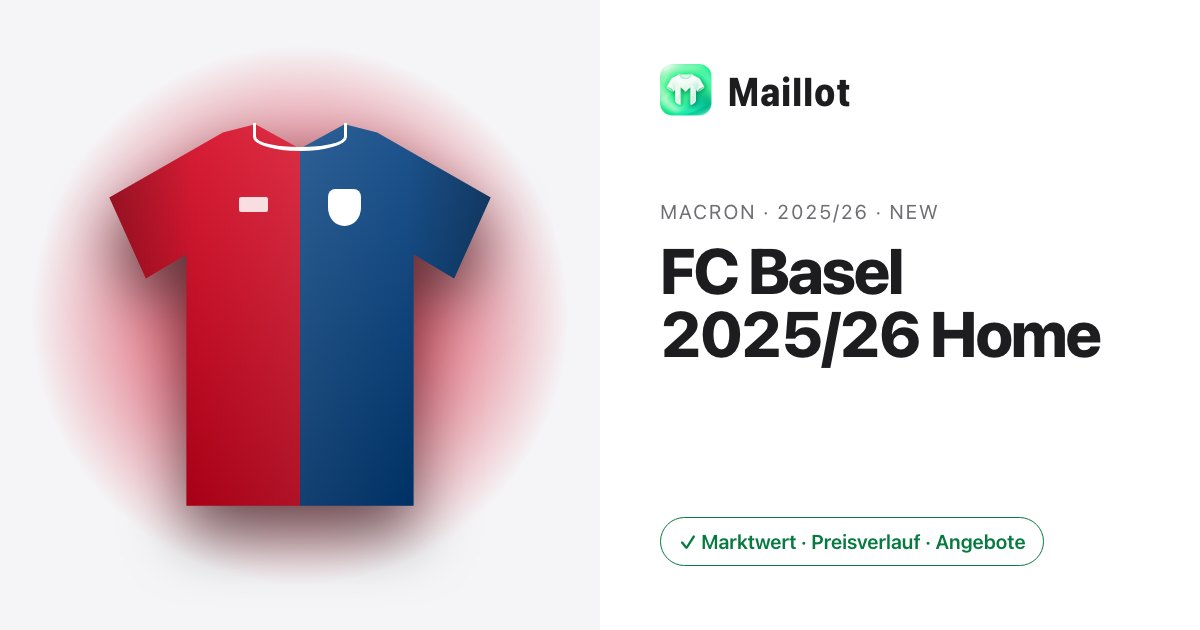
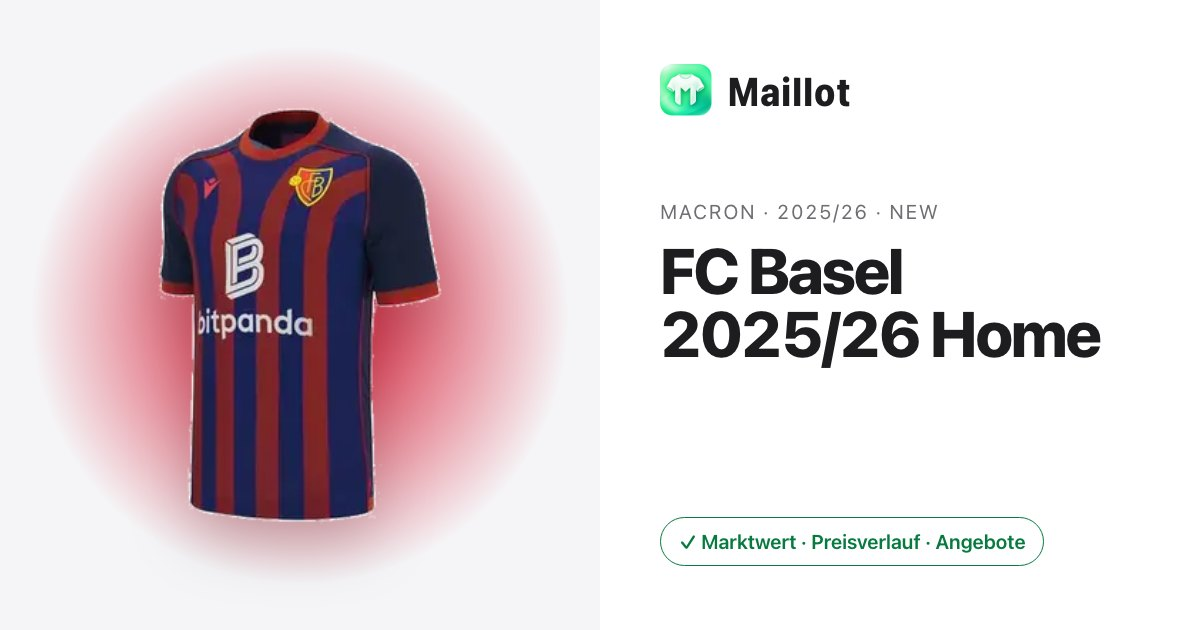
Market: real pictures only, no drawn sample shirts
Catalogue shirts without a studio photo show the same kit's picture from
the library (catalogPhotos.ts; ShirtGraphic takes a full picture path), the
link previews too. Ajax 1994/95 and Boca 1981 have no real picture: out of
the bundled catalogue (and off the market in production).

Changed region(s): [[0.0617, 0.1508, 0.4317, 0.9048]]

diff --git a/src/data.ts b/src/data.ts
@@ -89,13 +89,11 @@ const RAW: RawShirt[] = [
   { id: 'ned-88', club: 'Netherlands', name: 'Netherlands 1988 Home', season: '1988', year: 1988, brand: 'adidas', league: 'National Teams', type: 'Retro', cond: 'Excellent', edition: 'Replica', player: 'van Basten 12', price: 310, ch: 18, pat: 'repeating-linear-gradient(45deg,#FF6A13 0 10px,#EE5A08 10px 20px),#FF6A13', trim: '#FFFFFF', crest: '#FFFFFF', glow: '#FF6A13', added: 45 },
   { id: 'yb-2526', club: 'BSC Young Boys', name: 'BSC Young Boys 2025/26 Home', season: '2025/26', year: 2025, brand: 'Nike', league: 'Swiss Super League', type: 'New', cond: 'New with tags', edition: 'Replica', player: '', price: 89, ch: 1.8, pat: 'linear-gradient(180deg,#151515 0 17%,#FFD200 17%)', trim: '#151515', crest: '#151515', glow: '#FFD200', added: 12 },
   { id: 'juv-9697', club: 'Juventus', name: 'Juventus 1996/97 Home', season: '1996/97', year: 1996, brand: 'Kappa', league: 'Serie A', type: 'Retro', cond: 'Very good', edition: 'Replica', player: 'Del Piero 10', price: 240, ch: 11, pat: 'repeating-linear-gradient(90deg,#141414 0 10%,#F5F5F2 10% 20%)', trim: '#141414', crest: '#C9A227', glow: '#FFFFFF', added: 80 },
-  { id: 'ajx-95', club: 'Ajax', name: 'Ajax 1994/95 Home', season: '1994/95', year: 1994, brand: 'Umbro', league: 'Eredivisie', type: 'Retro', cond: 'Excellent', edition: 'Replica', player: 'Kluivert 15', price: 260, ch: 7, pat: 'linear-gradient(90deg,#F5F5F2 0 35%,#D2122E 35% 65%,#F5F5F2 65%)', trim: '#D2122E', num: '#141414', crest: '#D2122E', glow: '#D2122E', added: 95 },
   { id: 'liv-2526', club: 'Liverpool FC', name: 'Liverpool 2025/26 Home', season: '2025/26', year: 2025, brand: 'adidas', league: 'Premier League', type: 'New', cond: 'New with tags', edition: 'Replica', player: 'Salah 11', price: 105, ch: -3, pat: 'linear-gradient(180deg,#D0132F,#A30D25)', trim: '#FFFFFF', crest: '#F6EB61', glow: '#C8102E', added: 40 },
   { id: 'rma-2627', club: 'Real Madrid', name: 'Real Madrid 2026/27 Home', season: '2026/27', year: 2026, brand: 'adidas', league: 'La Liga', type: 'New', cond: 'New with tags', edition: 'Authentic', player: 'Mbappé 10', price: 115, ch: 2, pat: 'linear-gradient(180deg,#F8F7F3,#E2E0D8)', trim: '#C9A227', crest: '#C9A227', glow: '#C9A227', added: 4 },
   { id: 'mun-0708', club: 'Manchester United', name: 'Manchester United 2007/08 Home', season: '2007/08', year: 2007, brand: 'Nike', league: 'Premier League', type: 'Retro', cond: 'Excellent', edition: 'Replica', player: 'Ronaldo 7', price: 180, ch: -2, pat: 'linear-gradient(180deg,#DA1F26,#B3161C)', trim: '#FFFFFF', crest: '#FFD23F', glow: '#DA1F26', added: 120 },
   { id: 'bay-2627', club: 'FC Bayern München', name: 'FC Bayern 2026/27 Home', season: '2026/27', year: 2026, brand: 'adidas', league: 'Bundesliga', type: 'New', cond: 'New with tags', edition: 'Replica', player: 'Kane 9', price: 105, ch: -5, pat: 'linear-gradient(180deg,#DC052D 0 68%,#FFFFFF 68% 71%,#DC052D 71%)', trim: '#FFFFFF', crest: '#0066B2', glow: '#DC052D', added: 2 },
   { id: 'bra-70', club: 'Brazil', name: 'Brazil 1970 Home', season: '1970', year: 1970, brand: 'Athleta', league: 'National Teams', type: 'Retro', cond: 'Good', edition: 'Replica', player: 'Pelé 10', price: 520, ch: 3, pat: 'linear-gradient(180deg,#FEDD00,#F0C800)', trim: '#009B3A', crest: '#009B3A', glow: '#FEDD00', added: 200 },
-  { id: 'boc-81', club: 'Boca Juniors', name: 'Boca Juniors 1981 Home', season: '1981', year: 1981, brand: 'adidas', league: 'Liga Profesional', type: 'Retro', cond: 'Good', edition: 'Replica', player: 'Maradona 10', price: 290, ch: 5, pat: 'linear-gradient(180deg,#0B2D6B 0 38%,#F3B229 38% 55%,#0B2D6B 55%)', trim: '#F3B229', num: '#FFFFFF', crest: '#F3B229', glow: '#3D6FD6', added: 70 },
   { id: 'fra-98', club: 'France', name: 'France 1998 Home', season: '1998', year: 1998, brand: 'adidas', league: 'National Teams', type: 'Retro', cond: 'Excellent', edition: 'Replica', player: 'Zidane 10', price: 275, ch: 8, pat: 'linear-gradient(180deg,#14246B 0 30%,#FFFFFF 30% 33%,#E1001A 33% 38%,#FFFFFF 38% 41%,#14246B 41%)', trim: '#FFFFFF', crest: '#FFFFFF', glow: '#3556D8', added: 150 },
   { id: 'psg-2526', club: 'Paris Saint-Germain', name: 'PSG 2025/26 Home', season: '2025/26', year: 2025, brand: 'Nike', league: 'Ligue 1', type: 'New', cond: 'New with tags', edition: 'Replica', player: 'Dembélé 10', price: 115, ch: -4, pat: 'linear-gradient(90deg,#0E1E3F 0 37%,#FFFFFF 37% 39%,#D4202A 39% 61%,#FFFFFF 61% 63%,#0E1E3F 63%)', trim: '#FFFFFF', crest: '#D4202A', glow: '#D4202A', added: 25 },
   { id: 'bas-2526', club: 'FC Basel 1893', name: 'FC Basel 2025/26 Home', season: '2025/26', year: 2025, brand: 'Macron', league: 'Swiss Super League', type: 'New', cond: 'New with tags', edition: 'Replica', player: 'Shaqiri 10', price: 85, ch: -1, pat: 'linear-gradient(90deg,#D6001C 0 50%,#003E80 50%)', trim: '#FFFFFF', crest: '#FFFFFF', glow: '#D6001C', added: 20 }

diff --git a/src/__tests__/notifications.test.js b/src/__tests__/notifications.test.js
@@ -38,10 +38,10 @@ describe('localizeNotification', () => {
     expect(localizeNotification(n, t, money)).toEqual({ title: 'Ein gesuchtes Trikot ist im Angebot', body: 'Netherlands 1988 Home (M) ist jetzt für CHF 280 im Angebot.' });
   });
   it('tells members about offers and wanted shirts in collections', () => {
-    const offer = { title: 'New offer for your shirt', body: '…', data: { offer_id: 'o', catalog_id: 'ajx-95', size: 'M', amount: 175, handle: 'fan' } };
-    expect(localizeNotification(offer, t, money).body).toBe('@fan bietet CHF 175 für Ajax 1994/95 Home (M).');
-    const wanted = { title: 'A shirt you want is in a collection', body: '…', data: { handle: 'owner', catalog_id: 'ajx-95', size: 'M' } };
-    expect(localizeNotification(wanted, t, money)).toEqual({ title: 'Ein Wunschtrikot ist in einer Sammlung', body: '@owner hat Ajax 1994/95 Home (M) und ist offen für Angebote.' });
+    const offer = { title: 'New offer for your shirt', body: '…', data: { offer_id: 'o', catalog_id: 'juv-9697', size: 'M', amount: 175, handle: 'fan' } };
+    expect(localizeNotification(offer, t, money).body).toBe('@fan bietet CHF 175 für Juventus 1996/97 Home (M).');
+    const wanted = { title: 'A shirt you want is in a collection', body: '…', data: { handle: 'owner', catalog_id: 'juv-9697', size: 'M' } };
+    expect(localizeNotification(wanted, t, money)).toEqual({ title: 'Ein Wunschtrikot ist in einer Sammlung', body: '@owner hat Juventus 1996/97 Home (M) und ist offen für Angebote.' });
   });
   it('shows free text and unknown titles as sent', () => {
     expect(localizeNotification({ title: 'Dispute opened against your order', body: 'Never arrived', data: {} }, t, money)).toEqual({ title: 'Reklamation zu deiner Bestellung eröffnet', body: 'Never arrived' });

diff --git a/src/catalogPhotos.ts b/src/catalogPhotos.ts
@@ -1,8 +1,20 @@
 // Catalogue shirts with a real photo, cut out on a transparent background:
 // public/catalog/<id>.webp (1000 px) and <id>-400.webp, made with
 // scripts/catalog-studio.swift (→ .png) and scripts/catalog-webp.py.
-// Shirts not listed here keep the illustrated graphic.
+// The others show the same kit's picture from the library (a full path).
 const WITH_PHOTO = new Set(['acm-0607', 'ars-91', 'ger-26', 'juv-9697', 'mia-26', 'nap-8788', 'ned-88', 'sui-26']);
+const FROM_LIBRARY: Record<string, string> = {
+  'bas-2526': '/library/ch/basel/2025-26-home-kit.webp',
+  'bay-2627': '/library/bl/bayern/2026-27-home-kit.webp',
+  'bra-70': '/library/wc/brazil/1970-home-kit.webp',
+  'fcb-2627': '/library/ll/barcelona/2026-27-home-kit.webp',
+  'fra-98': '/library/wc/france/1998-home-kit.webp',
+  'liv-2526': '/library/pl/liverpool/2025-26-home-kit.webp',
+  'mun-0708': '/library/pl/man-united/2007-08-home-kit.webp',
+  'psg-2526': '/library/l1/psg/2025-26-home-kit.webp',
+  'rma-2627': '/library/ll/real-madrid/2026-27-home-kit.webp',
+  'yb-2526': '/library/yb/2025-26-home-kit.webp'
+};
 
-/** Base path of a shirt's photo (without size suffix/extension), if it has one. */
-export const catalogPhoto = (id: string): string | undefined => (WITH_PHOTO.has(id) ? '/catalog/' + id : undefined);
+/** A shirt's photo: a studio base path (without size suffix) or a library picture (ending in .webp), if it has one. */
+export const catalogPhoto = (id: string): string | undefined => (WITH_PHOTO.has(id) ? '/catalog/' + id : FROM_LIBRARY[id]);

diff --git a/e2e/smoke/navigation.spec.js b/e2e/smoke/navigation.spec.js
@@ -16,17 +16,17 @@ test('home page starts with the search, then trending shirts @mobile', async ({ 
 
 test('search leads to a shareable product URL and Back works', async ({ page }) => {
   await page.goto('/');
-  await page.getByRole('combobox', { name: 'Search any shirt' }).fill('maradona');
+  await page.getByRole('combobox', { name: 'Search any shirt' }).fill('zidane');
   // Suggestions from the marketplace show while typing (the library needs the backend).
-  await expect(page.getByRole('option', { name: /Boca Juniors 1981 Home/ })).toBeVisible();
+  await expect(page.getByRole('option', { name: /France 1998 Home/ })).toBeVisible();
   await page.getByRole('button', { name: 'Search', exact: true }).click();
   // The search lives in the URL, so results are shareable.
-  await expect(page).toHaveURL(/\/market\?q=maradona$/);
-  await page.getByRole('link', { name: 'Boca Juniors 1981 Home' }).click();
-  await expect(page).toHaveURL(/\/shirt\/boc-81$/);
-  await expect(page).toHaveTitle(/^Boca Juniors 1981 Home/);
+  await expect(page).toHaveURL(/\/market\?q=zidane$/);
+  await page.getByRole('link', { name: 'France 1998 Home' }).click();
+  await expect(page).toHaveURL(/\/shirt\/fra-98$/);
+  await expect(page).toHaveTitle(/^France 1998 Home/);
   await page.goBack();
-  await expect(page).toHaveURL(/\/market\?q=maradona$/);
+  await expect(page).toHaveURL(/\/market\?q=zidane$/);
 });
 
 test('deep link to a product shows market value and an honest empty order book', async ({ page }) => {

diff --git a/src/ui/ShirtGraphic.tsx b/src/ui/ShirtGraphic.tsx
@@ -37,9 +37,10 @@ export function ShirtGraphic({ pat, trim, crest, num, photo, view = 'front', her
     const width = Number.isFinite(pct) ? Math.min(100, Math.round(pct / 0.78)) + '%' : '100%';
     return (
       <img
-        src={photo + (hero ? '.webp' : '-400.webp')}
-        srcSet={`${photo}-400.webp 400w, ${photo}.webp 1000w`}
-        sizes={hero ? '(max-width: 900px) 100vw, 640px' : flat ? '120px' : '(max-width: 600px) 50vw, 320px'}
+        // A library picture is one file; a studio photo comes in two sizes.
+        {...(photo.endsWith('.webp')
+          ? { src: photo }
+          : { src: photo + (hero ? '.webp' : '-400.webp'), srcSet: `${photo}-400.webp 400w, ${photo}.webp 1000w`, sizes: hero ? '(max-width: 900px) 100vw, 640px' : flat ? '120px' : '(max-width: 600px) 50vw, 320px' })}
         alt={title ?? ''}
         loading={hero ? 'eager' : 'lazy'}
         decoding="async"

diff --git a/src/entry-server.tsx b/src/entry-server.tsx
@@ -59,5 +59,6 @@ export function shirtArt(id: string) {
   const s = SHIRTS.find((x) => x.id === id);
   if (!s) throw new Error('unknown shirt ' + id);
   const html = renderToStaticMarkup(<ShirtGraphic hero pat={s.pat} trim={s.trim} crest={s.crest} />);
-  return { id: s.id, name: s.name, brand: s.brand, season: s.season, type: s.type, glow: s.glow, html };
+  // photo: the studio base path or a library picture (catalogPhotos.ts), for link previews.
+  return { id: s.id, name: s.name, brand: s.brand, season: s.season, type: s.type, glow: s.glow, html, photo: s.photo ?? null };
 }
